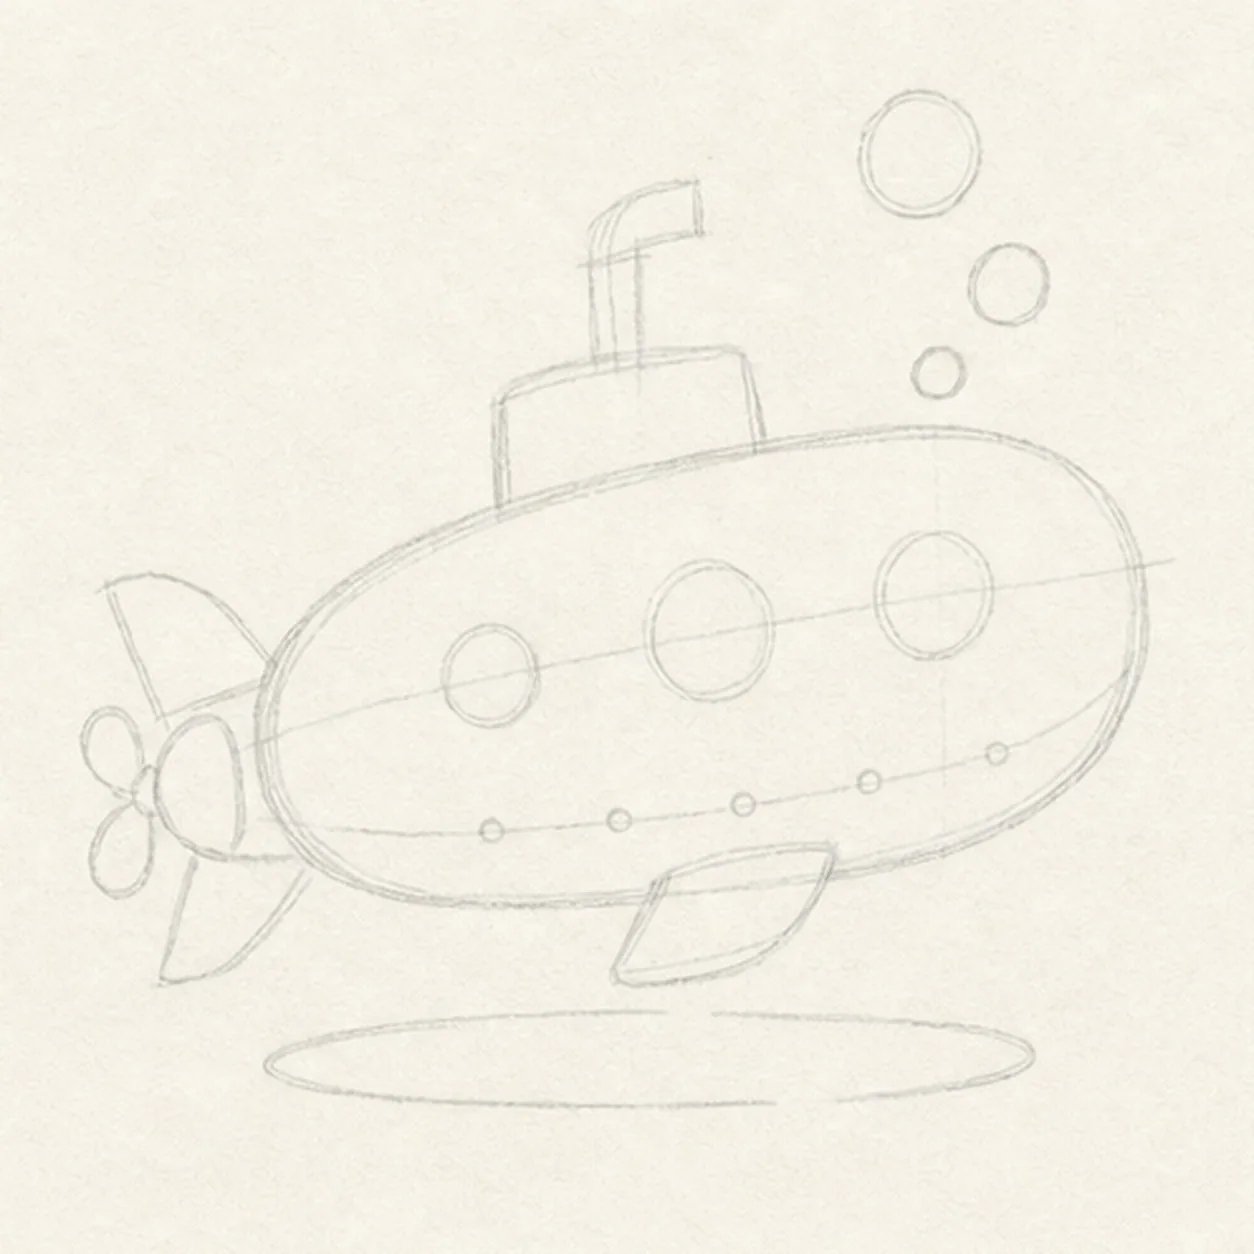
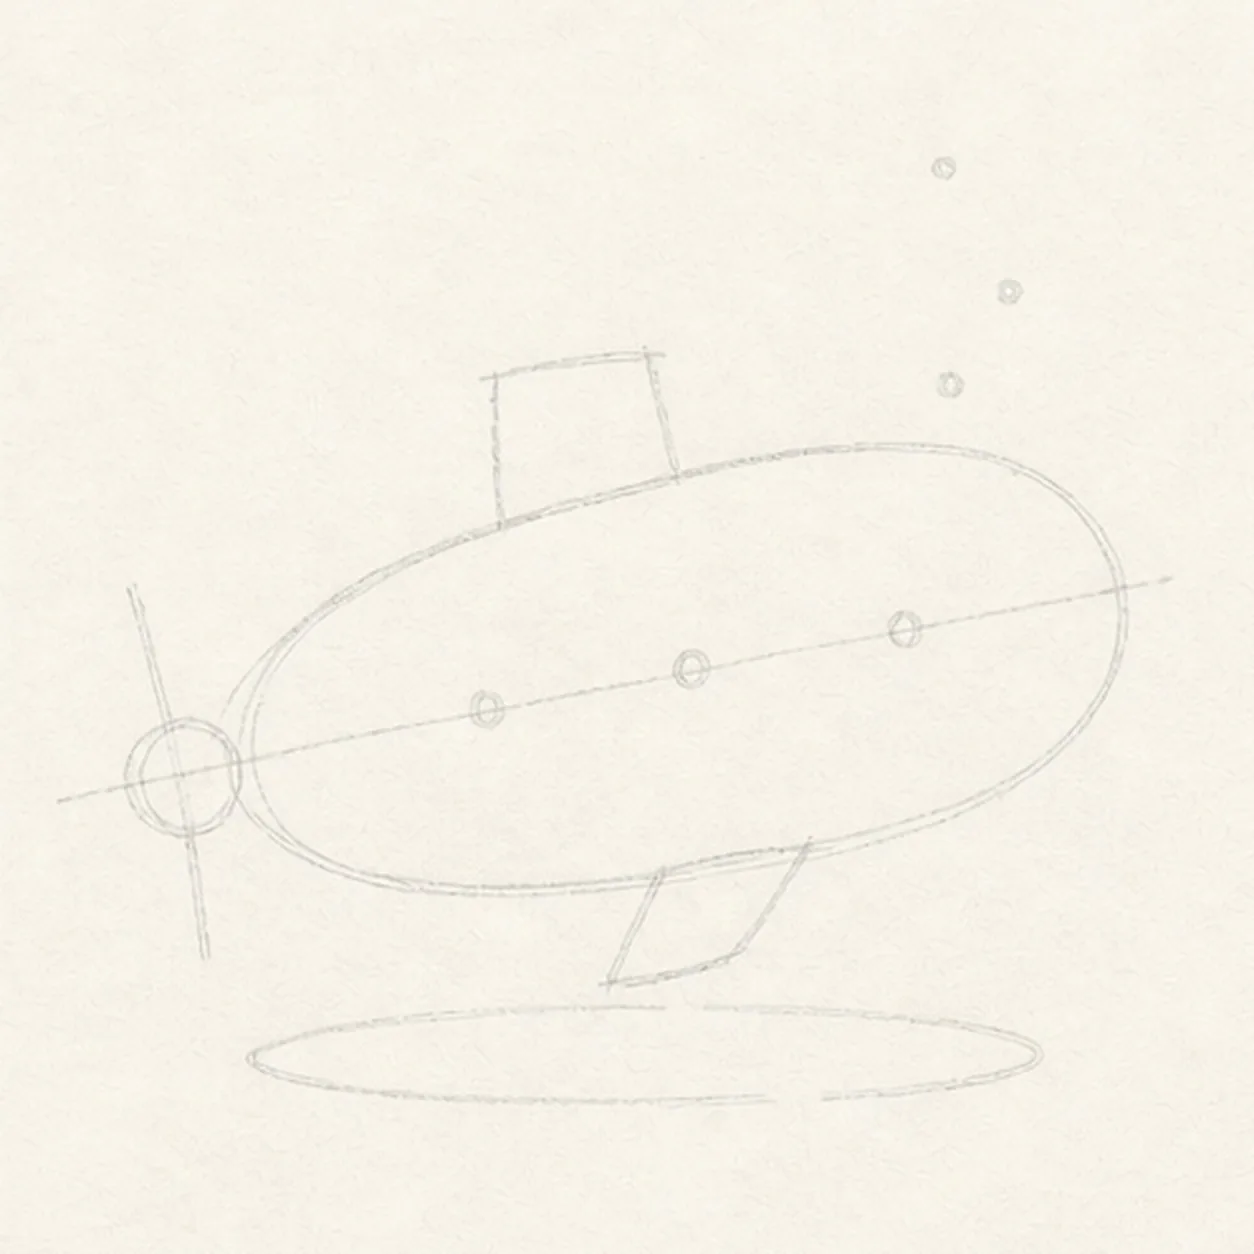
Repair submarine tutorial setup steps

diff --git a/tutorials/cartoon-submarine-with-bubbles.html b/tutorials/cartoon-submarine-with-bubbles.html
@@ -87,18 +87,18 @@
       "step": [
         {
           "@type": "HowToStep",
-          "name": "Map the submarine route",
-          "text": "Use pale construction to place the capsule hull, tower, bent periscope route, two tail fins, three-blade propeller, lower side fin, three porthole centers, six rivet positions, three bubbles, and the broken shadow footprint."
+          "name": "Set the dive gesture",
+          "text": "Draw one pale tilted centerline, wrap it with a loose capsule guide, then mark the small tower box, tail and fin axes, propeller hub, three porthole centers, three bubble centers, and broken shadow footprint. Keep this frame sparse—do not finish the submarine contour yet."
         },
         {
           "@type": "HowToStep",
-          "name": "Build the diving silhouette",
-          "text": "Wrap the guides with the rounded hull, small tower, already mapped bent periscope, exactly two tail fins, one three-blade propeller, and one lower side fin while preserving every feature center and bubble route."
+          "name": "Build the submarine body",
+          "text": "Use the map to draw the rounded hull, small tower, bent periscope, tapered tail housing, exactly two tail fins, one lower side fin, the hub plus three light propeller-blade gestures, and three light bubble circles. Leave the window, rivet, seam, and shadow details pale."
         },
         {
           "@type": "HowToStep",
-          "name": "Place windows and hardware",
-          "text": "Refine the persistent bent periscope, then add exactly three porthole rings, one hull seam, exactly six rivets, and exactly three bubbles in light line before any bold inking."
+          "name": "Install windows and hardware",
+          "text": "Complete exactly three porthole rings, one hull seam, exactly six rivets, the three propeller blades, the three existing bubble guides, and the broken shadow outline in refined pencil. Every shape that the next step inks should now be visible."
         },
         {
           "@type": "HowToStep",
@@ -195,36 +195,36 @@
             <button class="step-check" type="button" aria-label="Mark step 1 complete"><span></span></button>
             <div class="step-number">01</div>
             <div class="step-art">
-              <img src="../assets/cartoon-submarine-with-bubbles-step-1.webp" alt="Map the submarine route stage for how to draw a cartoon submarine" width="627" height="627" loading="lazy">
+              <img src="../assets/cartoon-submarine-with-bubbles-step-1.webp" alt="Set the dive gesture stage for how to draw a cartoon submarine" width="627" height="627" loading="lazy">
             </div>
             <div class="step-copy">
-              <h3>Map the submarine route</h3>
-              <p>Use pale construction to place the capsule hull, tower, bent periscope route, two tail fins, three-blade propeller, lower side fin, three porthole centers, six rivet positions, three bubbles, and the broken shadow footprint.</p>
-              <p class="artist-tip"><strong>Marker tip:</strong> Ghost the long capsule twice before touching down, then compare the empty wedges above and below the hull. Count the three window centers and six rivet positions now so the marker stage never has to invent hardware.</p>
+              <h3>Set the dive gesture</h3>
+              <p>Draw one pale tilted centerline, wrap it with a loose capsule guide, then mark the small tower box, tail and fin axes, propeller hub, three porthole centers, three bubble centers, and broken shadow footprint. Keep this frame sparse—do not finish the submarine contour yet.</p>
+              <p class="artist-tip"><strong>Marker tip:</strong> Ghost the capsule twice before touching down. Space the three window dots along the upper half, and keep the fin and propeller axes outside the hull guide so the attachments have room to grow.</p>
             </div>
           </li>
           <li class="step-card">
             <button class="step-check" type="button" aria-label="Mark step 2 complete"><span></span></button>
             <div class="step-number">02</div>
             <div class="step-art">
-              <img src="../assets/cartoon-submarine-with-bubbles-step-2.webp" alt="Build the diving silhouette stage for how to draw a cartoon submarine" width="627" height="627" loading="lazy">
+              <img src="../assets/cartoon-submarine-with-bubbles-step-2.webp" alt="Build the submarine body stage for how to draw a cartoon submarine" width="627" height="627" loading="lazy">
             </div>
             <div class="step-copy">
-              <h3>Build the diving silhouette</h3>
-              <p>Wrap the guides with the rounded hull, small tower, already mapped bent periscope, exactly two tail fins, one three-blade propeller, and one lower side fin while preserving every feature center and bubble route.</p>
-              <p class="artist-tip"><strong>Marker tip:</strong> Rotate the page to pull the long top and bottom hull curves in confident passes. Before moving on, trace the tower into the periscope with your finger so that landmark never disappears between construction and hardware.</p>
+              <h3>Build the submarine body</h3>
+              <p>Use the map to draw the rounded hull, small tower, bent periscope, tapered tail housing, exactly two tail fins, one lower side fin, the hub plus three light propeller-blade gestures, and three light bubble circles. Leave the window, rivet, seam, and shadow details pale.</p>
+              <p class="artist-tip"><strong>Marker tip:</strong> Draw the hull before the fins so each attachment tucks behind it. Rotate the page for the long curves, then trace the tower into the bent periscope with your finger to confirm one continuous route.</p>
             </div>
           </li>
           <li class="step-card">
             <button class="step-check" type="button" aria-label="Mark step 3 complete"><span></span></button>
             <div class="step-number">03</div>
             <div class="step-art">
-              <img src="../assets/cartoon-submarine-with-bubbles-step-3.webp" alt="Place windows and hardware stage for how to draw a cartoon submarine" width="627" height="627" loading="lazy">
+              <img src="../assets/cartoon-submarine-with-bubbles-step-3.webp" alt="Install windows and hardware stage for how to draw a cartoon submarine" width="627" height="627" loading="lazy">
             </div>
             <div class="step-copy">
-              <h3>Place windows and hardware</h3>
-              <p>Refine the persistent bent periscope, then add exactly three porthole rings, one hull seam, exactly six rivets, and exactly three bubbles in light line before any bold inking.</p>
-              <p class="artist-tip"><strong>Marker tip:</strong> Compare the three porthole gaps rather than chasing perfect circles. Arrange the bubbles from small to large, and confirm the same periscope bend is still anchored to the tower.</p>
+              <h3>Install windows and hardware</h3>
+              <p>Complete exactly three porthole rings, one hull seam, exactly six rivets, the three propeller blades, the three existing bubble guides, and the broken shadow outline in refined pencil. Every shape that the next step inks should now be visible.</p>
+              <p class="artist-tip"><strong>Marker tip:</strong> Compare the three porthole gaps rather than chasing perfect circles. Count six rivets from tail to nose, then check three blades, three bubbles, two tail fins, and one lower fin before reaching for the marker.</p>
             </div>
           </li>
           <li class="step-card">

diff --git a/HUMANS.md b/HUMANS.md
@@ -18,6 +18,18 @@
   steps, derivatives, frame deltas, JSON-LD, internal links, unused assets, lab
   privacy, `git diff --check`, and rendered desktop/mobile QA all pass.
 
+### 2026-08-09 — Submarine early-step correction (Codex)
+- Corrected `cartoon-submarine-with-bubbles` after owner review found the first
+  three frames too visually similar. The repaired sequence now separates the
+  dive gesture, complete body construction, and windows/hardware pass. Public
+  Steps 4-5 and the finished JPG remain byte-identical to the approved lesson.
+- The original Step 1-3 JPG masters and superseded contact sheet remain private
+  under `superseded-near-duplicate-early-panels-v1/`. Schema-v2 planning,
+  frame deltas, readiness checks, JSON-LD, internal links, lab privacy,
+  `git diff --check`, and desktop/mobile Cove QA all pass. The
+  one-current-lesson-per-site cadence remains active; archive work remains
+  limited to explicit owner-requested corrections.
+
 ### 2026-08-09 — Daily tutorial (Codex)
 - Added one current lesson only: `open-book-with-ribbon-bookmark` (August 9 /
   Day 096). The approved v2 eight-panel handmade raster process keeps one open
